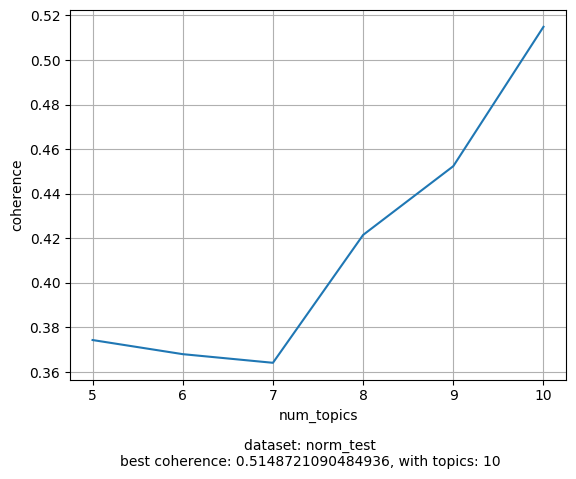
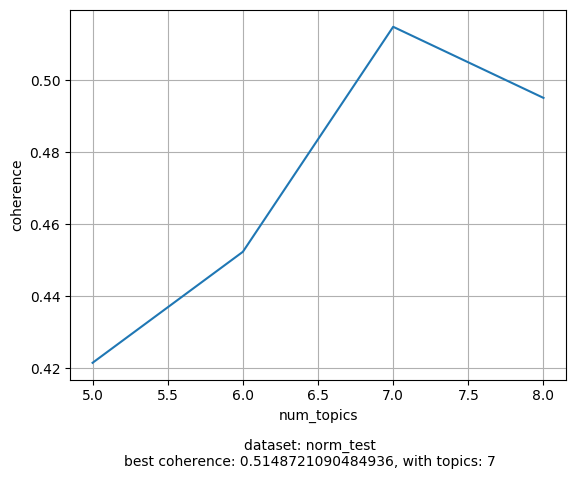
lwwasdasdfasdfsdfsadffeasdfsdfsdasdff

diff --git a/corpora/notebooks/test_gensim.py b/corpora/notebooks/test_gensim.py
@@ -61,15 +61,12 @@ def draw_plot(dataset_name, x, y, best_coherence, best_num_topics):
     fig.savefig("../img/num_topics_" + dataset_name + ".png", bbox_inches="tight")
     
 def find_best_topic_num(datasets, lim_low, lim_high):
-    coherences = []
-    models = []
-
     for dataset_name in datasets:
+        models = []
+        coherences = []
         sentences, dic, corpus = make_data(dataset_name)
         for i in range(lim_low, lim_high+1):
             print(dataset_name + "... loop {} / {}".format(i, lim_high))
-            #lda_model = gensim.models.ldamodel.LdaModel(corpus=corpus, id2word=dic, num_topics=i, random_state=100,
-            #                               update_every=1, chunksize=100, passes=10, per_word_topics=True)
             lda_model = gensim.models.ldamulticore.LdaMulticore(corpus=corpus, id2word=dic, num_topics=i, random_state=100,
                                            chunksize=100, passes=10, per_word_topics=True)#update_every=1, 
             models.append(lda_model)
@@ -90,7 +87,7 @@ def find_best_topic_num(datasets, lim_low, lim_high):
 # usually one cand find a name for the topic (has to look at the keywords manually)
 
 datasets = ["test", "norm_test"]
-find_best_topic_num(datasets, 5, 8)
+find_best_topic_num(datasets, 25, 200)
 
     
     
@@ -158,16 +155,16 @@ find_best_topic_num(datasets, 5, 8)
 #new_doc = [dic.doc2bow(sample) for sample in sentences_split[:1]]
 # ein neues doc muss ein satz sein (also eine liste)
 #new_doc2 = dic.doc2bow(*sentences_split[:1])
-print(new_doc)
-print(new_doc2)
+#print(new_doc)
+#print(new_doc2)
 # get topics from a new document (fremd am besten)
 #top = lda_model.get_document_topics(new_doc, minimum_probability=None, minimum_phi_value=None, per_word_topics=False)
 #top2 = lda_model.get_document_topics(new_doc2, minimum_probability=None, minimum_phi_value=None, per_word_topics=False)
 # zeige alle topics in dem document
 #for i, x in enumerate(top):
-    print(x)
+#    print(x)
 #for i, x in enumerate(top2):
-    print(x)
+#    print(x)
 
 
 # In[ ]:
